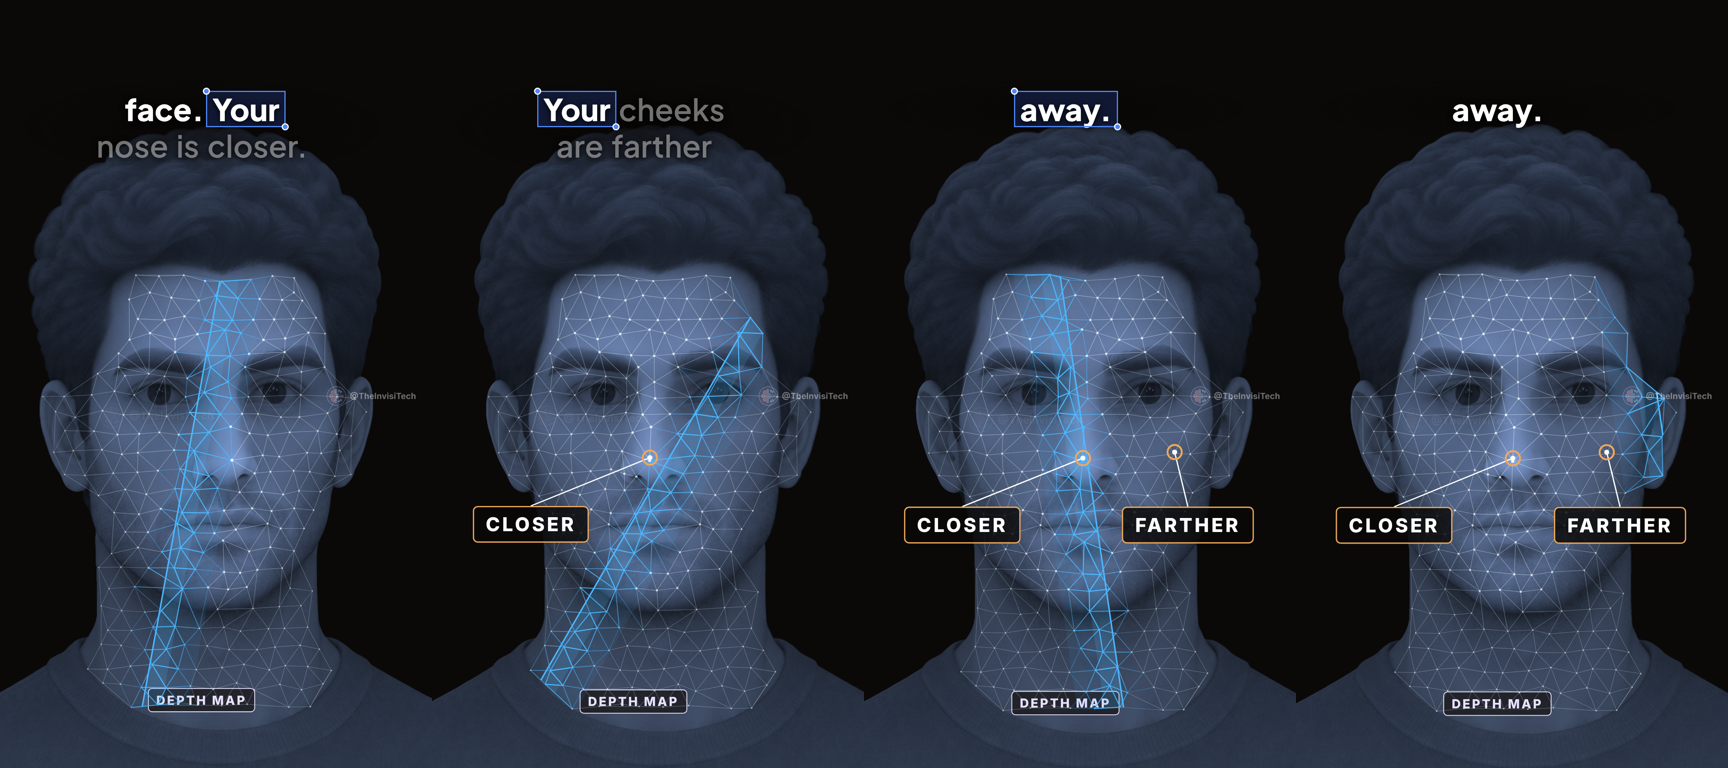
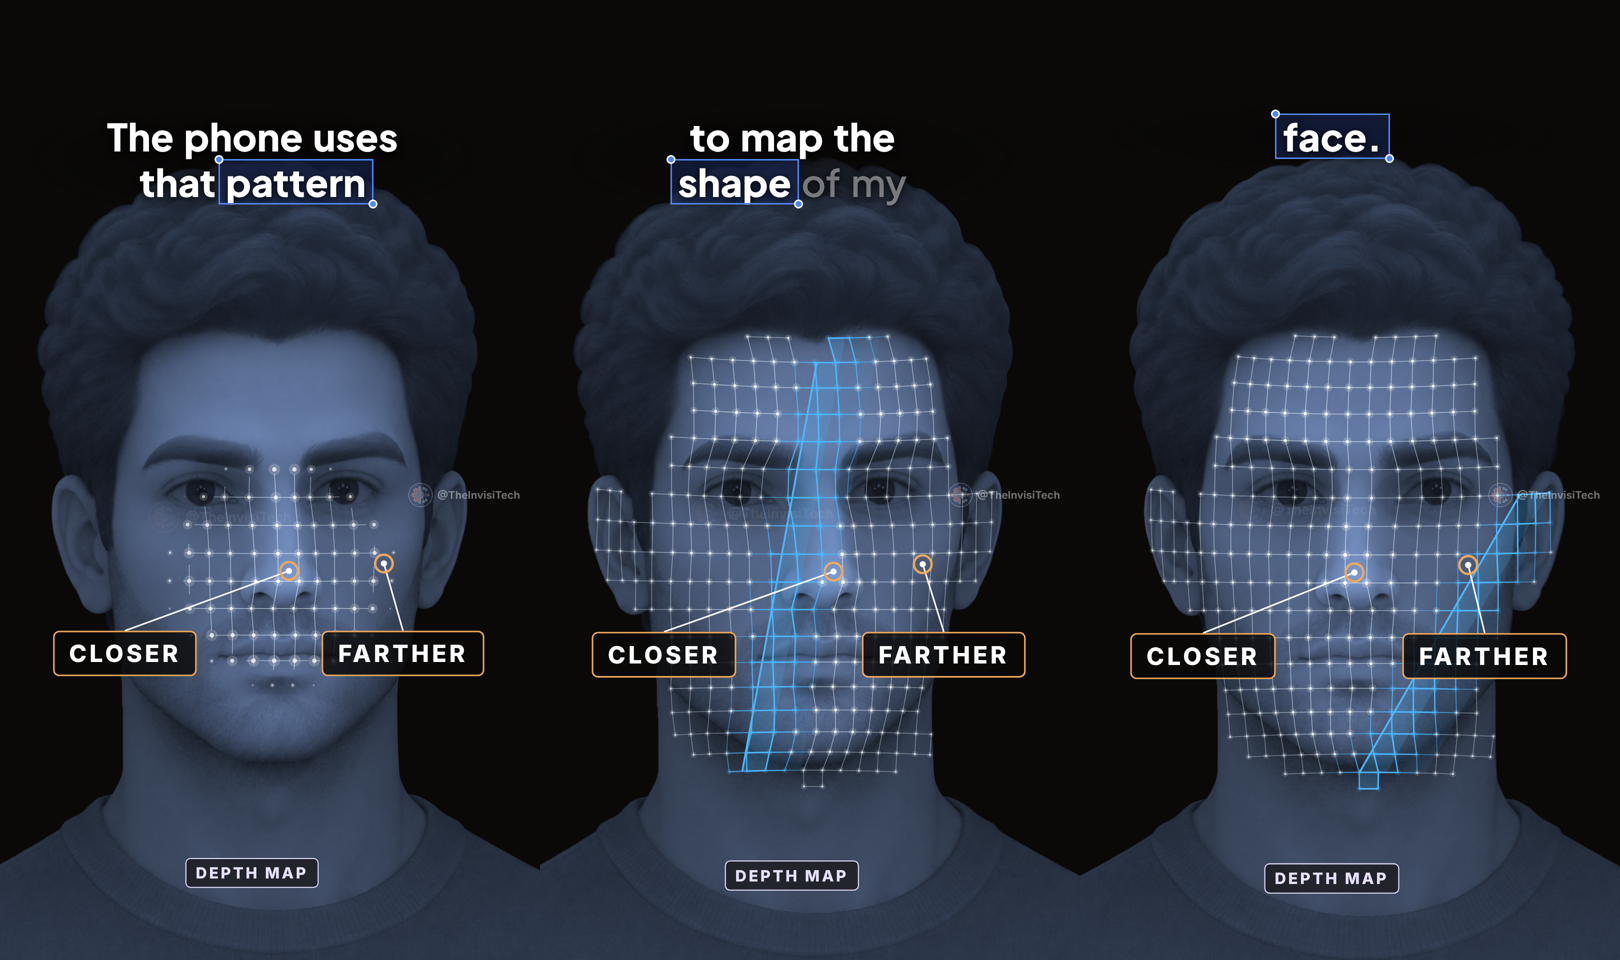
Mirror Short: depth web is a curved grid with glowing nodes over the face and ears, no neck
Claude-Session: https://claude.ai/code/session_01GXcKc5WnFrVWBsHLe8YpAy

diff --git a/face-id/mirror-short/src/scenes/Scan.tsx b/face-id/mirror-short/src/scenes/Scan.tsx
@@ -77,9 +77,11 @@ const FaceView: React.FC<{ s: number; depth0: number | null; flash: number | nul
               if (g <= 0) return null;
               const near = (L[a][2] + L[b][2]) / 2;                                // nearer strands are brighter
               const k = band((L[a][0] + L[b][0]) / 2, (L[a][1] + L[b][1]) / 2);                             // inside the green scan band
-              return <line key={i} x1={L[a][0]} y1={L[a][1]} x2={L[a][0] + (L[b][0] - L[a][0]) * g} y2={L[a][1] + (L[b][1] - L[a][1]) * g} stroke={k > 0.02 ? SCAN : MESH} strokeWidth={1.1 + 1.5 * k} opacity={Math.min(1, 0.18 + 0.6 * near + 0.7 * k)} />;
+              return <line key={i} x1={L[a][0]} y1={L[a][1]} x2={L[a][0] + (L[b][0] - L[a][0]) * g} y2={L[a][1] + (L[b][1] - L[a][1]) * g} stroke={k > 0.02 ? SCAN : MESH} strokeWidth={1.5 + 1.5 * k} opacity={Math.min(1, 0.3 + 0.55 * near + 0.7 * k)} />;
             })}
-            {L.map(([x, y, d], i) => { const k = ramp(s, when(i), when(i) + 4); return k > 0 ? <circle key={i} cx={x} cy={y} r={(1.4 + 2.6 * d) * k * (1 + 1.2 * (1 - ramp(s, when(i), when(i) + 9)))} fill={band(x, y) > 0.3 ? SCAN : '#fff'} opacity={0.35 + 0.65 * d} /> : null; })}
+            {L.map(([x, y, d], i) => { const k = ramp(s, when(i), when(i) + 4); if (k <= 0) return null; const r = (1.8 + 2.4 * d) * k * (1 + 1.2 * (1 - ramp(s, when(i), when(i) + 9))), c = band(x, y) > 0.3 ? SCAN : '#fff';
+              // a glowing node at every crossing of the grid
+              return <g key={i}><circle cx={x} cy={y} r={r * 2.6} fill={c} opacity={0.13 + 0.12 * d} /><circle cx={x} cy={y} r={r} fill={c} opacity={0.55 + 0.45 * d} /></g>; })}
             {/* the scan: a green band sweeps the whole web from left to right, again and again */}
             <g opacity={ramp(s, t0 + SPAN - 6, t0 + SPAN)}>
               <g clipPath="url(#scan-clip)">

diff --git a/face-id/mirror-short/tools/prep_mesh_front.py b/face-id/mirror-short/tools/prep_mesh_front.py
@@ -1,12 +1,11 @@
 """Fine 3D web for the depth scene on the straight-on face.
-Points: a jittered grid over the visible face plus hand-placed landmarks, each with its depth, joined by a
-Delaunay triangulation (long edges dropped).  Also stores depth profiles (rows across the face) for the scan line.
+Points: a regular latitude / longitude grid over the face and ears (no neck), each with its depth, joined along
+the grid lines.  Also stores depth profiles (rows across the face) for the scan line.
 -> src/mesh_front.json"""
 import json
 from pathlib import Path
 import numpy as np
 from PIL import Image, ImageFilter
-from scipy.spatial import Delaunay
 
 R = Path(__file__).resolve().parent.parent
 F = json.load(open(R / "src/front.json"))
@@ -15,29 +14,31 @@ dep = np.asarray(dep_i.filter(ImageFilter.GaussianBlur(8))).astype(float) / 255
 raw = np.asarray(dep_i).astype(float) / 255
 ir = np.asarray(Image.open(R / "public/face_front_ir.png").convert("L").filter(ImageFilter.GaussianBlur(4))).astype(float) / 255
 H, W = dep.shape
-# all visible skin: face, ears and neck down to the collar (hair is excluded by the infrared brightness)
+# the face and ears, no neck: everything above the jaw line (which rises toward the ears); hair is excluded by the
+# infrared brightness
 yy, xx = np.arange(H)[:, None], np.arange(W)[None, :]
-JAW = 868
-NECK = F["chin"] + 78
-skin = (raw > 0.10) & (ir > 0.38) & (yy < NECK)
-Z = [(575,470),(380,500),(770,500),(575,600),(300,700),(440,660),(540,700),(640,700),(740,660),(860,700),
-     (350,775),(490,780),(660,780),(800,775),(585,740),(585,860),(585,950),(505,985),(660,985),(350,930),(810,930),
-     (455,1120),(700,1120),(575,1085),(575,1165),(575,1250),(575,1350)]
-pts = [(96 + x / 2, 200 + y / 2) for x, y in Z]
-rng = np.random.default_rng(4); S = 30
-for gy in np.arange(300, NECK, S * 0.87):
-    for k, gx in enumerate(np.arange(120, 640, S)):
-        x = gx + (S / 2 if int(gy / (S * 0.87)) % 2 else 0) + rng.uniform(-5, 5); y = gy + rng.uniform(-5, 5)
-        if 0 <= int(x) < W and skin[int(y), int(x)] and min(np.hypot(x - px, y - py) for px, py in pts) > 15:
-            pts.append((x, y))
+NX, NY = F["nose"][0], F["nose"][1]
+from scipy import ndimage
+skin = (raw > 0.10) & (ir > 0.38)
+skin = ndimage.binary_fill_holes(ndimage.binary_closing(skin, iterations=14))          # bridge brows, eyes and stubble
+skin &= (raw > 0.10) & (yy < 902 - 0.0019 * (xx - NX) ** 2)
+# a regular grid wrapped round the head like lines of latitude and longitude (as in the reference picture):
+# columns bunch up toward the sides and rows bend, so the web reads as a curved surface, with a node at every crossing
+CY, RX, RY, STEP = NY - 60, 262.0, 345.0, 0.088
+us = np.arange(-1.45, 1.451, STEP); vs = np.arange(-1.2, 1.201, STEP)
+idx = {}; pts = []
+for a, v in enumerate(vs):
+    for b, u in enumerate(us):
+        x = NX + RX * np.sin(u) * (0.72 + 0.28 * np.cos(v)); y = CY + RY * np.sin(v) + 46 * (1 - np.cos(u)) * np.sin(v) - 14 * (1 - np.cos(u))
+        if 0 <= int(x) < W and 0 <= int(y) < H and skin[int(y), int(x)]:
+            idx[(a, b)] = len(pts); pts.append((x, y))
 P = np.array(pts)
-E = set(); T = []          # T: triangles with all three sides kept = the area the web covers (the scan is clipped to it)
-for a, b, c in Delaunay(P).simplices:
-    ok = 0
-    for i, j in ((a, b), (b, c), (a, c)):
-        if np.hypot(*(P[i] - P[j])) < 62:
-            E.add((min(i, j), max(i, j))); ok += 1
-    if ok == 3: T.append([int(a), int(b), int(c)])
+E = set(); T = []          # T: grid cells (as two triangles) = the area the web covers (the scan is clipped to it)
+for (a, b), k in idx.items():
+    for q in ((a, b + 1), (a + 1, b)):
+        if q in idx: E.add((min(k, idx[q]), max(k, idx[q])))
+    if (a, b + 1) in idx and (a + 1, b) in idx and (a + 1, b + 1) in idx:
+        T.append([k, idx[(a, b + 1)], idx[(a + 1, b + 1)]]); T.append([k, idx[(a + 1, b + 1)], idx[(a + 1, b)]])
 out_pts = [[round(float(x), 1), round(float(y), 1), round(float(dep[int(y), int(x)]), 3)] for x, y in P]
 X0, DX, Y0, DY = 150, 8, 300, 8
 rows = [[round(float(dep[y, x]) if raw[y, x] > 0.1 else 0, 3) for x in range(X0, 610, DX)] for y in range(Y0, F["chin"] + 20, DY)]
